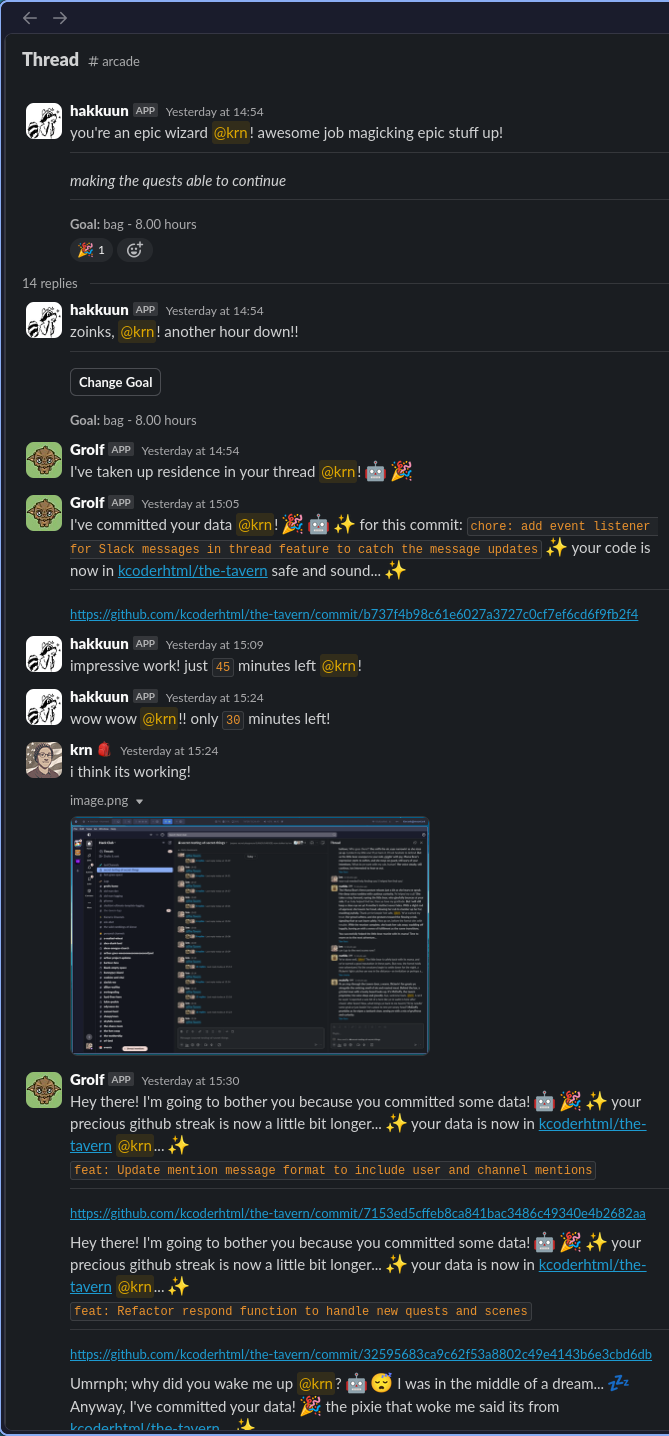
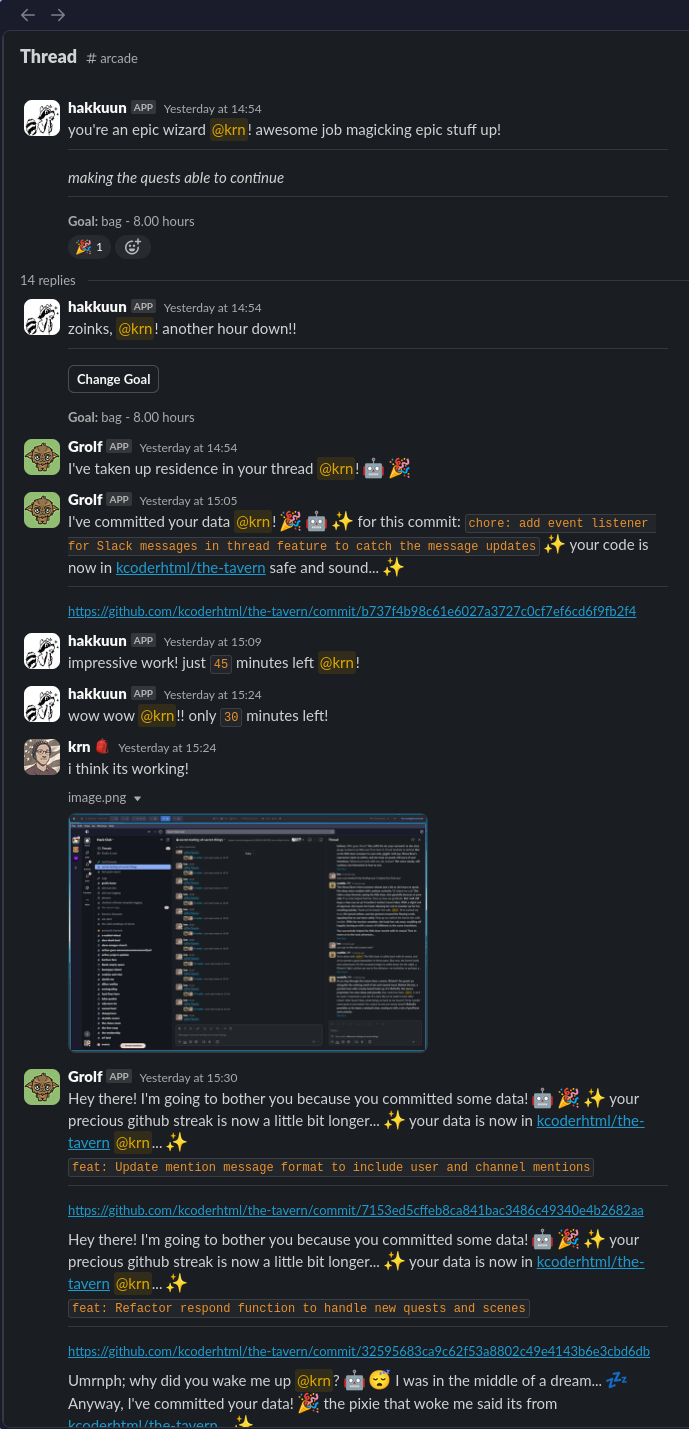
feat: Improve README.md with Grolf description and thread image

Changed region(s): [[0.0, 0.0, 1.0, 1.0]]

diff --git a/README.md b/README.md
@@ -2,8 +2,12 @@
 
 Your friendly lightweight arcade helper written in Bun and hosted on nest! 😎
 
-<img src=".github/images/grolf-thread.png"/>
-If you've never used grolf before and are curious what it is then here's the TDLR: Grolf is a slack app that acts as an air traffic control room basicaly for your github commits. It takes in webhooks from github for every commit you push to github and then redirects them to the proper arcade thread on slack. It also has pretty graphs all made out of asci and a super nice logging system originaly developed by [@jaspermayone](https://github.com/jaspermayone) for the https://github.com/hackclub/arcadius and https://github.com/hackclub/professor-bloom slack bots.
+<div style="display: flex">
+  <img src=".github/images/grolf-thread.png" style="width: 40vw"/>
+  <p>If you've never used grolf before and are curious what it is then here's the TDLR: Grolf is a slack app that acts as an air traffic control room basicaly for your github commits. It takes in webhooks from github for every commit you push to github and then redirects them to the proper arcade thread on slack. It also has pretty graphs all made out of asci and a super nice logging system originaly developed by [@jaspermayone](https://github.com/jaspermayone) for the https://github.com/hackclub/arcadius and https://github.com/hackclub/professor-bloom slack bots.</p>
+</div>
+
+---
 
 _Claim to fame: I demoed this to the founder of Github!_
 
